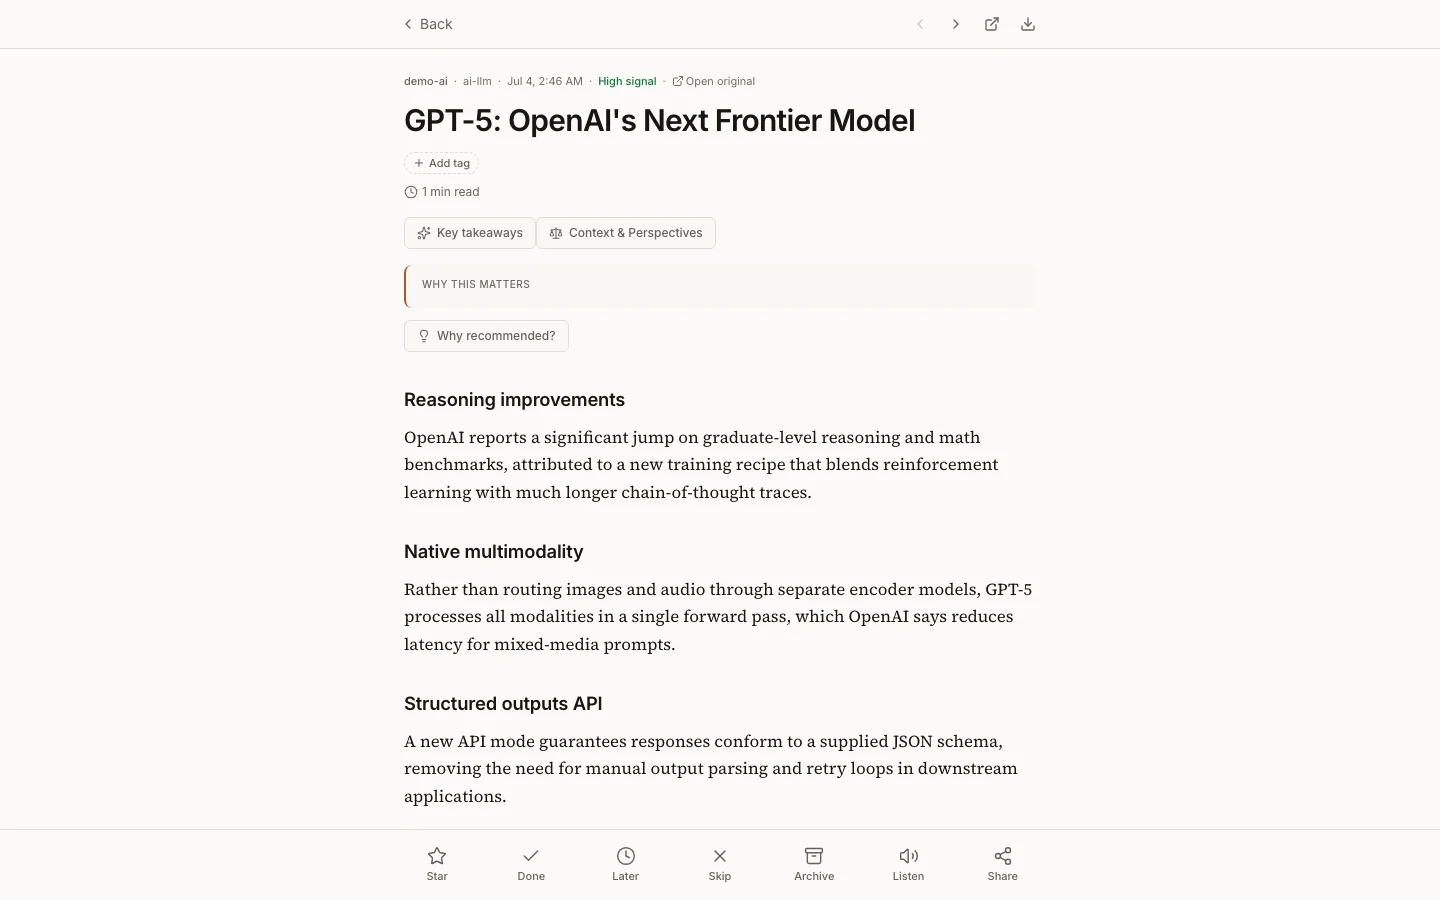
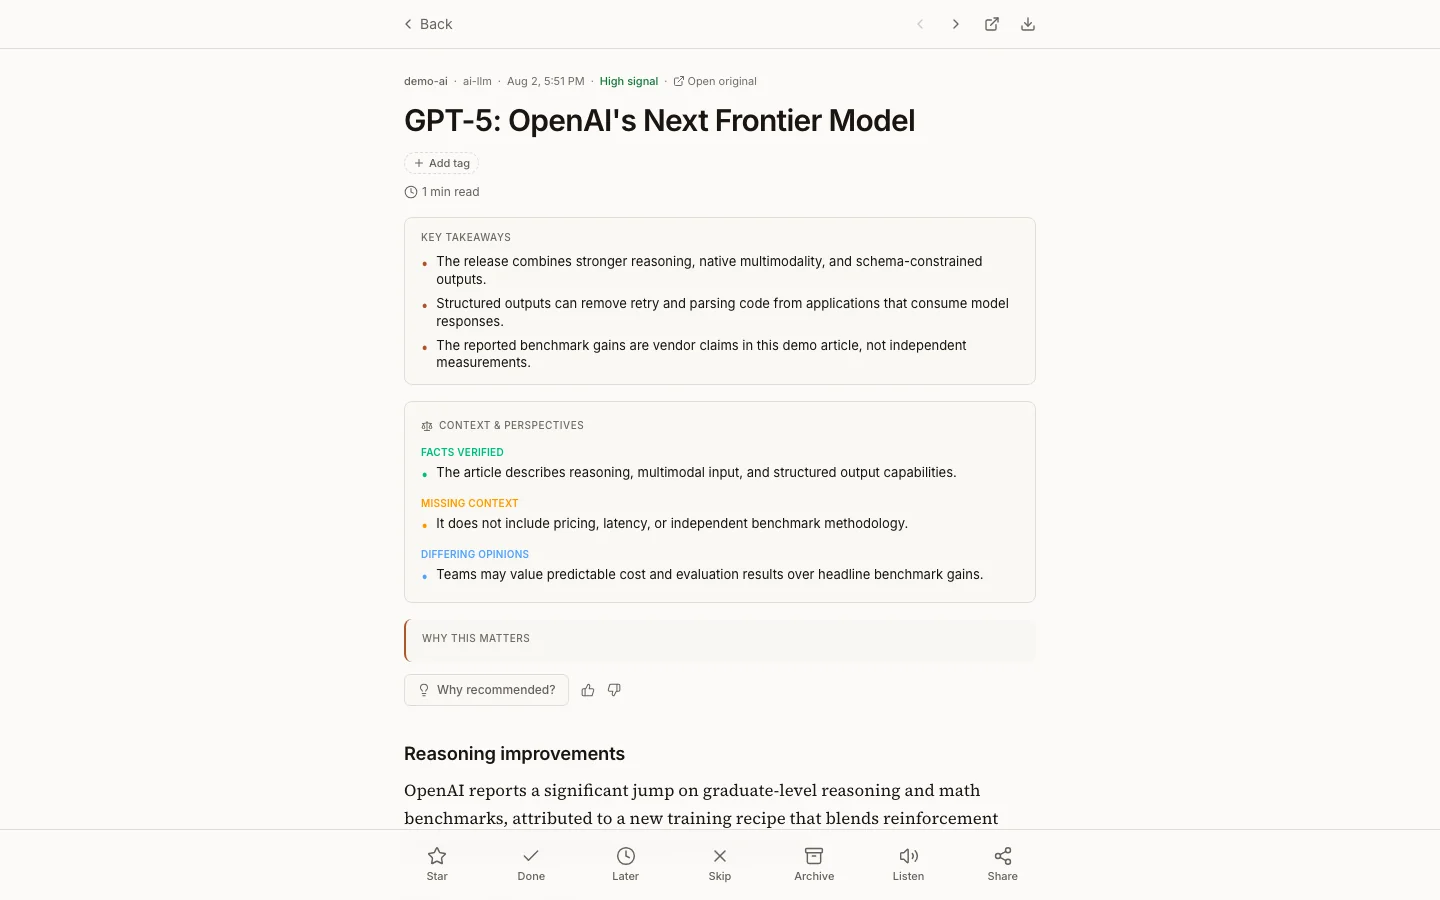
fix: capture representative AI showcase states

Changed region(s): [[0.2812, 0.4356, 0.7188, 0.9333], [0.2812, 0.2489, 0.6875, 0.4044], [0.375, 0.0622, 0.5312, 0.0933]]

diff --git a/scripts/capture-screenshots.spec.ts b/scripts/capture-screenshots.spec.ts
@@ -49,6 +49,12 @@ test('capture product screenshots', async ({ page }) => {
   }
   await dismissIfShown(/skip for now/i);
   await dismissIfShown(/got it/i);
+  await page.evaluate(async () => {
+    const response = await fetch('/api/changelog');
+    const changelog = (await response.json()) as { version?: string };
+    window.sessionStorage.setItem('onboarding-skipped', '1');
+    if (changelog.version) window.localStorage.setItem('lastSeenVersion', changelog.version);
+  });
 
   // 1. Today feed — the primary triage view, used as the README hero shot.
   await page.goto('/today');
@@ -57,18 +63,36 @@ test('capture product screenshots', async ({ page }) => {
   await expect(firstArticleLink).toBeVisible();
   await page.screenshot({ path: path.join(OUT_DIR, 'today-feed.png') });
 
-  // 2. Article detail — navigate to the first article from the feed. A
+  // 2. Article intelligence — open the seeded article with cached AI output. A
   // direct goto is used instead of clicking the row: clicking intermittently
   // updates the URL via history.pushState without React Router committing
   // the corresponding route render.
-  const articleHref = await firstArticleLink.getAttribute('href');
-  await page.goto(articleHref!);
+  const intelligenceArticleId = await page.evaluate(async () => {
+    const response = await fetch('/api/articles?state=today&limit=100');
+    const payload = (await response.json()) as { items: Array<{ id: number; title: string }> };
+    return payload.items.find((article) => article.title.startsWith('GPT-5:'))?.id;
+  });
+  expect(intelligenceArticleId).toBeDefined();
+  await page.goto(`/a/${intelligenceArticleId}`);
   await page.waitForLoadState('networkidle');
+  await page.getByTestId('insights-button').click();
+  await expect(page.getByTestId('insights-section')).toBeVisible();
+  await page.getByTestId('perspectives-button').click();
+  await expect(page.getByTestId('perspectives-section')).toBeVisible();
   await page.screenshot({ path: path.join(OUT_DIR, 'article-detail.png') });
 
-  // 3. Briefing page — the AI daily-briefing landing view.
-  await page.goto('/');
+  // 3. Briefing detail — the completed, deterministic AI briefing.
+  const briefingId = await page.evaluate(async () => {
+    const response = await fetch('/api/briefings/latest');
+    const payload = (await response.json()) as { id?: number };
+    return payload.id;
+  });
+  expect(briefingId).toBeDefined();
+  await page.goto(`/briefs/${briefingId}`);
   await page.waitForLoadState('networkidle');
+  await expect(
+    page.getByRole('heading', { name: 'The developer AI stack moves toward production' })
+  ).toBeVisible();
   await page.screenshot({ path: path.join(OUT_DIR, 'briefing.png') });
 
   // 4. Sources page — feed management.

diff --git a/backend/news_dashboard/demo.py b/backend/news_dashboard/demo.py
@@ -11,6 +11,7 @@ The guest account is read-only: the ``reject_guest_writes`` middleware in
 
 from __future__ import annotations
 
+import json
 import logging
 import os
 from datetime import datetime, timedelta, timezone
@@ -196,6 +197,37 @@ _DEMO_ARTICLES: list[dict[str, Any]] = [
         "category": "ai-llm",
         "importance_score": 90,
         "tags": "ai,llm,openai",
+        "insights": [
+            (
+                "The release combines stronger reasoning, native multimodality, and "
+                "schema-constrained outputs."
+            ),
+            (
+                "Structured outputs can remove retry and parsing code from applications that "
+                "consume model responses."
+            ),
+            (
+                "The reported benchmark gains are vendor claims in this demo article, not "
+                "independent measurements."
+            ),
+        ],
+        "perspective_analysis": {
+            "verified_facts": [
+                (
+                    "The article describes reasoning, multimodal input, and structured output "
+                    "capabilities."
+                )
+            ],
+            "omissions": [
+                "It does not include pricing, latency, or independent benchmark methodology."
+            ],
+            "alternative_perspectives": [
+                (
+                    "Teams may value predictable cost and evaluation results over headline "
+                    "benchmark gains."
+                )
+            ],
+        },
     },
     {
         "url": "https://example.com/demo/llama-4",
@@ -407,11 +439,6 @@ def seed_demo() -> dict[str, Any]:
     if os.getenv("DEMO_MODE", "").strip().lower() not in ("1", "true", "yes", "on"):
         return {"skipped": True, "reason": "DEMO_MODE not set"}
 
-    # Idempotency: if the guest user already exists, skip.
-    existing = get_user_by_username(_DEMO_GUEST_USERNAME)
-    if existing:
-        return {"skipped": True, "reason": "guest user already exists"}
-
     # Ensure sources table has the demo entries before inserting articles.
     _seed_demo_sources()
     source_ids = _get_demo_source_slugs()
@@ -419,24 +446,31 @@ def seed_demo() -> dict[str, Any]:
         msg = "demo sources must exist before seeding articles"
         raise RuntimeError(msg)
 
-    # Create the guest user.
-    guest = create_user(
-        _DEMO_GUEST_USERNAME,
-        _DEMO_GUEST_PASSWORD,
-        is_admin=False,
-        is_guest=True,
-    )
-    guest_id = int(guest["id"])
-    logger.info("Demo guest user created: id=%s", guest_id)
+    # Insert or refresh the deterministic articles before resolving the guest,
+    # so existing demo databases receive newly added showcase data too.
+    article_ids = _seed_demo_articles()
+
+    existing = get_user_by_username(_DEMO_GUEST_USERNAME)
+    if existing:
+        guest_id = int(existing["id"])
+        created = False
+    else:
+        guest = create_user(
+            _DEMO_GUEST_USERNAME,
+            _DEMO_GUEST_PASSWORD,
+            is_admin=False,
+            is_guest=True,
+        )
+        guest_id = int(guest["id"])
+        created = True
+        logger.info("Demo guest user created: id=%s", guest_id)
 
     # Subscribe guest to demo sources.
     _subscribe_guest_to_sources(guest_id)
 
-    # Insert demo articles.
-    article_ids = _seed_demo_articles()
-
     # Create per-user article states.
     _seed_demo_article_states(guest_id, article_ids)
+    _seed_demo_briefing(guest_id, article_ids)
 
     logger.info(
         "Demo data seeded: %d sources, %d articles, %d states for guest user %s",
@@ -446,6 +480,8 @@ def seed_demo() -> dict[str, Any]:
         guest_id,
     )
 
+    if not created:
+        return {"skipped": True, "reason": "guest user already exists"}
     return {"created": True, "guest_id": guest_id, "articles": len(article_ids)}
 
 
@@ -507,10 +543,18 @@ def _seed_demo_articles() -> list[int]:
                 INSERT INTO articles(
                     url, canonical_url, title, source_slug, source_name,
                     category, kind, published_at, summary, importance_score, tags, state,
-                    body, body_status
+                    body, body_status, insights, perspective_analysis
                 )
-                VALUES (%s, %s, %s, %s, %s, %s, %s, %s, %s, %s, %s, 'today', %s, %s)
-                ON CONFLICT (url) DO NOTHING
+                VALUES (
+                    %s, %s, %s, %s, %s, %s, %s, %s, %s, %s, %s, 'today',
+                    %s, %s, %s, %s::jsonb
+                )
+                ON CONFLICT (url) DO UPDATE SET
+                    insights = COALESCE(articles.insights, EXCLUDED.insights),
+                    perspective_analysis = COALESCE(
+                        articles.perspective_analysis,
+                        EXCLUDED.perspective_analysis
+                    )
                 RETURNING id
                 """,
                 (
@@ -527,6 +571,12 @@ def _seed_demo_articles() -> list[int]:
                     art.get("tags", ""),
                     body,
                     "ok" if body else "missing",
+                    json.dumps(art["insights"]) if art.get("insights") else None,
+                    (
+                        json.dumps(art["perspective_analysis"])
+                        if art.get("perspective_analysis")
+                        else None
+                    ),
                 ),
             ).fetchone()
             if row:
@@ -540,6 +590,80 @@ def _seed_demo_articles() -> list[int]:
                 if existing_row:
                     article_ids.append(int(existing_row["id"]))
     return article_ids
+
+
+def _seed_demo_briefing(user_id: int, article_ids: list[int]) -> None:
+    """Create the deterministic, offline briefing used by the demo and screenshots."""
+    if len(article_ids) < 7:
+        return
+
+    now = datetime.now(timezone.utc)
+    cited_ids = [article_ids[3], article_ids[4], article_ids[6]]
+    content = {
+        "sections": [
+            {
+                "title": "AI tools move toward production workflows",
+                "body": (
+                    "This cycle pairs stronger coding and reasoning models with a common protocol "
+                    "for connecting assistants to tools and trusted data."
+                ),
+                "citations": cited_ids,
+            }
+        ],
+        "worth_opening": [article_ids[4], article_ids[6]],
+    }
+
+    with connect() as conn:
+        row = conn.execute(
+            """
+            SELECT id FROM briefings
+            WHERE user_id = %s AND title = %s
+            LIMIT 1
+            """,
+            (user_id, "The developer AI stack moves toward production"),
+        ).fetchone()
+        if row:
+            briefing_id = int(row["id"])
+        else:
+            inserted = conn.execute(
+                """
+                INSERT INTO briefings(
+                    created_at, scope, since_at, until_at, status,
+                    title, summary, content, model, user_id
+                )
+                VALUES (%s, %s, %s, %s, 'complete', %s, %s, %s::jsonb, %s, %s)
+                RETURNING id
+                """,
+                (
+                    now.isoformat(),
+                    "current_day",
+                    (now - timedelta(days=1)).isoformat(),
+                    now.isoformat(),
+                    "The developer AI stack moves toward production",
+                    (
+                        "Coding models, structured outputs, and tool protocols are converging on "
+                        "more reliable developer workflows."
+                    ),
+                    json.dumps(content),
+                    "deterministic-demo",
+                    user_id,
+                ),
+            ).fetchone()
+            if inserted is None:
+                return
+            briefing_id = int(inserted["id"])
+
+        for citation_index, article_id in enumerate(cited_ids):
+            conn.execute(
+                """
+                INSERT INTO briefing_articles(
+                    briefing_id, article_id, section_index, citation_index
+                )
+                VALUES (%s, %s, 0, %s)
+                ON CONFLICT DO NOTHING
+                """,
+                (briefing_id, article_id, citation_index),
+            )
 
 
 def _seed_demo_article_states(user_id: int, article_ids: list[int]) -> None:

diff --git a/backend/tests/test_demo.py b/backend/tests/test_demo.py
@@ -98,6 +98,36 @@ def test_seed_creates_article_states(demo_db: str) -> None:
     assert state_count[0] > 0, "no article state entries for guest"
 
 
+def test_seed_creates_offline_ai_showcase(demo_db: str) -> None:
+    """Demo data includes a completed briefing and cached article intelligence."""
+    with psycopg_connect(demo_db, row_factory=None) as conn:
+        guest = conn.execute(
+            "SELECT id FROM users WHERE username='guest'",
+        ).fetchone()
+        assert guest is not None
+        briefing = conn.execute(
+            "SELECT title, summary, content FROM briefings WHERE user_id=%s",
+            (guest[0],),
+        ).fetchone()
+        article = conn.execute(
+            """
+            SELECT insights, perspective_analysis
+            FROM articles
+            WHERE url = 'https://example.com/demo/gpt-5'
+            """,
+        ).fetchone()
+
+    assert briefing is not None
+    assert briefing[0] == "The developer AI stack moves toward production"
+    assert briefing[1]
+    assert briefing[2]["sections"]
+    assert article is not None
+    assert article[0]
+    assert article[1]["verified_facts"]
+    assert article[1]["omissions"]
+    assert article[1]["alternative_perspectives"]
+
+
 def test_seed_spans_multiple_workflow_states(demo_db: str) -> None:
     """Seeded articles span multiple workflow states (today, done, saved)."""
     with psycopg_connect(demo_db, row_factory=None) as conn:

diff --git a/scripts/optimize_screenshots.py b/scripts/optimize_screenshots.py
@@ -7,6 +7,7 @@ docs/screenshots/ to WebP, stepping quality down until the file is under the
 
 from __future__ import annotations
 
+import shutil
 import sys
 from pathlib import Path
 
@@ -14,6 +15,8 @@ from PIL import Image
 
 MAX_BYTES = 300 * 1024
 SCREENSHOTS_DIR = Path(__file__).resolve().parent.parent / "docs" / "screenshots"
+WEBSITE_IMG_DIR = Path(__file__).resolve().parent.parent / "website" / "static" / "img"
+WEBSITE_SCREENSHOTS = {"article-detail.webp", "briefing.webp"}
 
 
 def convert(png_path: Path) -> Path:
@@ -36,6 +39,9 @@ def main() -> None:
         sys.exit(1)
     for png_path in pngs:
         webp_path = convert(png_path)
+        if webp_path.name in WEBSITE_SCREENSHOTS:
+            WEBSITE_IMG_DIR.mkdir(parents=True, exist_ok=True)
+            shutil.copy2(webp_path, WEBSITE_IMG_DIR / webp_path.name)
         size_kb = webp_path.stat().st_size / 1024
         print(f"{webp_path.name}: {size_kb:.1f} KB")
 
